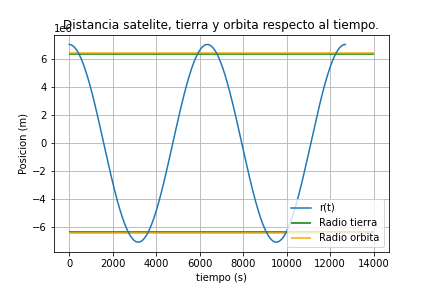
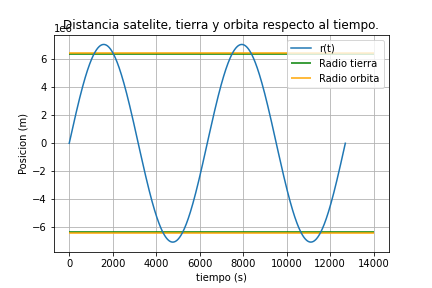
Add files via upload

diff --git a/Entrega 2/Integracion_edm_basica_(grafico distancia satelite al centro de la tierra respecto al tiempo).py b/Entrega 2/Integracion_edm_basica_(grafico distancia satelite al centro de la tierra respecto al tiempo).py
@@ -14,7 +14,7 @@ m_t = 5.98*(10**24)  #Kg
 r = (6371 + 700)*1000 #metros
 radio_tierra = 6371*1000
 radio_orbita = (6371+80)*1000
-t = 12700             
+t = 12700 #segundos            
 omega = (2*3.14)/(24*3600)   #2*Pi/24 horas en segundos
 T = sp.linspace(0,t,1001)
 
@@ -67,7 +67,7 @@ tetha = np.linspace(0,2*3.14,100)
 X = r_atmosfera*np.cos(tetha)
 Y = r_atmosfera*np.sin(tetha)
 
-plt.plot(T,x)
+plt.plot(T,y)
 plt.hlines(y = radio_tierra, xmin = 0, xmax=14000,color="green")
 plt.hlines(y = radio_orbita, xmin = 0, xmax=14000, color="orange")
 plt.hlines(y = -radio_tierra, xmin = 0, xmax=14000, color="green")
